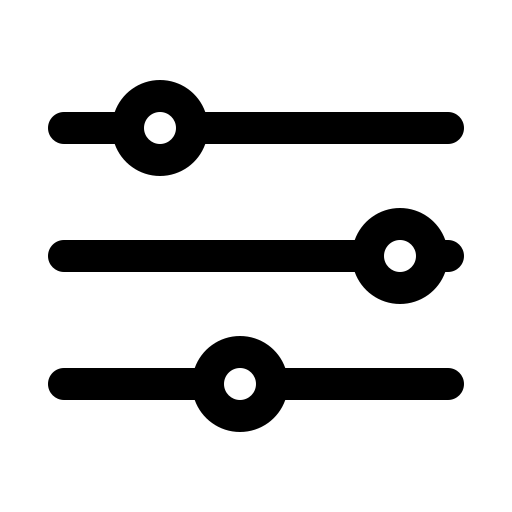
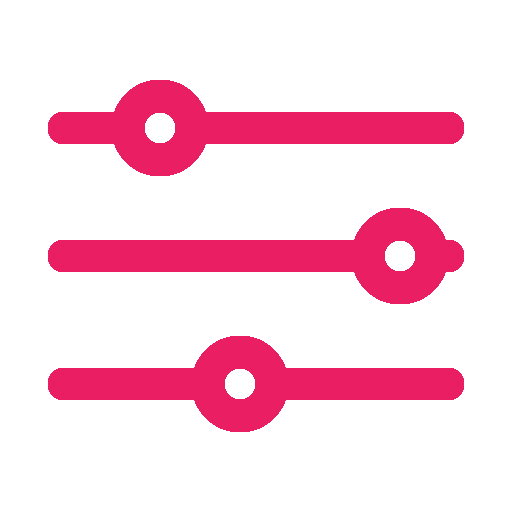
Mis à jour des styles de Artistes / de la couleur des images utilisées / de la date des concerts des artistes

Changed region(s): [[0.0938, 0.6562, 0.9062, 0.8438], [0.0938, 0.4062, 0.9062, 0.5938], [0.0938, 0.1562, 0.9062, 0.3438]]

diff --git a/components/artistes/programmation/Programmation.js b/components/artistes/programmation/Programmation.js
@@ -43,24 +43,26 @@ const Programmation = ({ artistes, navigation }) => {
    * @returns {function} Une fonction qui prend un objet item et renvoie un composant CheckBox.
    */
   const renderCheckbox = (array, setArray) => ({ item }) => (
-    <View style={{flex: 1}}>
+    <View style={styles.checkboxContainer}>
       <CheckBox
         title={item.style || item.scene}
         checked={item.selected}
         onPress={() => {
           inversionLogique(item.id, array, setArray);
         }}
-        style={styles.checkbox}
+        containerStyle={{backgroundColor: '#333333', borderWidth: 2, borderColor: '#e91e63'}}
+        textStyle={styles.checkboxTitle}
         checkedIcon="music"
-        checkedColor="#6DBD38"
+        checkedColor="#e91e63"
         uncheckedIcon="music"
-        uncheckedColor="#CACACA"
+        uncheckedColor="#333333"
+        wrapperStyle="#e91e63"
       />
     </View>
   );
 
   return (
-    <View style={{ flex: 1 }}>
+    <View style={styles.root}>
       <View style={styles.topBar}>
         <IconToggleButton
           source={require("../../../icones/rechercher.png")}
@@ -73,13 +75,13 @@ const Programmation = ({ artistes, navigation }) => {
         />
         <DayButton
           label="SAMEDI"
-          date="10 Juin"
+          date="01 Août"
           selected={jour === "samedi"}
           onPress={() => setJour("samedi")}
         />
         <DayButton
           label="DIMANCHE"
-          date="11 Juin"
+          date="02 Août"
           selected={jour === "dimanche"}
           onPress={() => setJour("dimanche")}
         />
@@ -108,7 +110,6 @@ const Programmation = ({ artistes, navigation }) => {
           {recherche && (
             <SearchBar
               placeholder="Nom de l'artiste"
-              lightTheme
               round
               value={rechercher}
               onChangeText={(text) => setRechercher(text)}

diff --git a/components/artistes/programmation/styles.js b/components/artistes/programmation/styles.js
@@ -2,36 +2,93 @@ import { StyleSheet } from "react-native";
 import { wp, hp } from '../../dimensions';
 
 const styles = StyleSheet.create({
+  root: {
+    flex: 1,
+    backgroundColor: '#333333',
+  },
+
   topBar: {
     flexDirection: "row",
     justifyContent: "space-between",
-    backgroundColor: "#C0C0C0",
+    alignItems: "center",
+    backgroundColor: "#333333",
     paddingVertical: hp('1.5'),
+    paddingHorizontal: wp('2'),
+    borderBottomWidth: 0.5,
+    borderBottomColor: '#333',
+    shadowColor: "#000",
+    shadowOffset: { width: 0, height: 2 },
+    shadowOpacity: 0.2,
+    shadowRadius: 3,
+    elevation: 5,
+    borderRadius: 5,
   },
+
   icone: {
     height: wp('10'),
     width: wp('10'),
     marginHorizontal: wp('2'),
   },
+
   text: {
     alignItems: "center",
+    color: '#e91e63',
   },
+
   selectText: {
     alignItems: "center",
     borderBottomWidth: wp('0.7'),
     borderBottomColor: "#000",
+    color: '#e91e63',
   },
-  checkbox: {
-    backgroundColor: "red",
+
+  checkboxContainer: {
+    flex: 1,
   },
+
+  checkboxTitle: {
+    color: '#e91e63',
+  },
+
   title: {
     textAlign: "center",
     marginVertical: wp('3'),
     fontSize: wp('5'),
+    color: '#e91e63',
+    backgroundColor: '#333333',
   },
+
   subTitle: {
     marginStart: wp('5'),
     marginTop: wp('3'),
+    color: '#e91e63',
+    backgroundColor: '#333333',
+  },
+
+  dayButton: {
+    padding: wp('2'),
+    borderRadius: wp('2'),
+    backgroundColor: '#333333',
+    marginHorizontal: wp('2'),
+    shadowColor: "#000",
+    shadowOffset: { width: 0, height: 2 },
+    shadowOpacity: 0.23,
+    shadowRadius: 2.62,
+    elevation: 4,
+  },
+
+  selectedDayButton: {
+    backgroundColor: '#e91e63',
+  },
+
+  dayButtonText: {
+    fontSize: wp('4'),
+    fontWeight: '600',
+    color: '#e91e63',
+  },
+
+  selectedDayButtonText: {
+    color: '#333333',
   },
 });
 

diff --git a/components/artistes/carte_artiste/styles.js b/components/artistes/carte_artiste/styles.js
@@ -1,29 +1,35 @@
-import { StyleSheet, Dimensions } from "react-native";
-
-const screenWidth = Dimensions.get("window").width;
+import { StyleSheet } from "react-native";
+import { wp, hp } from '../../dimensions';
 
 const styles = StyleSheet.create({
   format: {
     flexDirection: "row",
     elevation: 5,
     shadowColor: "#52006A",
-    marginVertical: screenWidth * 0.02,
-    marginHorizontal: screenWidth * 0.02,
-    borderRadius: screenWidth * 0.03,
-    backgroundColor: "white",
+    marginVertical: hp('2'),
+    marginHorizontal: wp('2'),
+    borderRadius: wp('3'),
+    backgroundColor: '#333333',
+    borderColor: '#e91e63',
+    borderWidth: 1,
   },
+
   formatAdjust: {
-    marginVertical: screenWidth * 0.01,
-    marginHorizontal: screenWidth * 0.02,
+    marginVertical: hp('1'),
+    marginHorizontal: wp('2'),
     justifyContent: "center",
   },
+
   icone: {
-    width: screenWidth * 0.2,
-    height: screenWidth * 0.2,
-    borderTopLeftRadius: screenWidth * 0.03,
-    borderTopRightRadius: screenWidth * 0.0,
-    borderBottomLeftRadius: screenWidth * 0.03,
-    borderBottomRightRadius: screenWidth * 0.0,
+    width: wp('20'),
+    height: wp('20'),
+    borderTopLeftRadius: wp('3'),
+    borderTopRightRadius: wp('0'),
+    borderBottomLeftRadius: wp('3'),
+    borderBottomRightRadius: wp('0'),
+  },
+  text: {
+    color: '#e91e63',
   },
 });
 

diff --git a/components/artistes/carte_artiste/CarteArtiste.js b/components/artistes/carte_artiste/CarteArtiste.js
@@ -1,6 +1,7 @@
 import React, { useEffect, useState } from "react";
 import { Text, Image, View, TouchableOpacity } from "react-native";
 
+import { setUpDate, setUpTime } from '../../utilities';
 import styles from "./styles";
 
 const CarteArtiste = ({ item, onPress }) => {
@@ -26,11 +27,11 @@ const CarteArtiste = ({ item, onPress }) => {
     <TouchableOpacity onPress={onPress} style={styles.format}>
       <Image source={{ uri: item.acf.imageurl }} style={styles.icone} />
       <View style={styles.formatAdjust}>
-        <Text>{nom}</Text>
-        <Text>
-          {hmdebut} - {hmfin}
+        <Text style={styles.text}>{nom}</Text>
+        <Text style={styles.text}>
+          De {setUpTime(hmdebut)} à {setUpTime(hmfin)}
         </Text>
-        <Text>
+        <Text style={styles.text}>
           {scene} / {style_musical}
         </Text>
       </View>

diff --git a/components/artistes/programmation/DayButton.js b/components/artistes/programmation/DayButton.js
@@ -3,11 +3,10 @@ import { Text, TouchableOpacity } from 'react-native';
 
 import styles from "./styles.js";
 
-const DayButton = ({ label, date, selected, onPress }) => {
+const DayButton = ({ label, selected, onPress }) => {
   return (
-    <TouchableOpacity style={styles.text} onPress={onPress}>
-      <Text>{label}</Text>
-      <Text style={selected ? styles.selectText : styles.select}>{date}</Text>
+    <TouchableOpacity style={[styles.dayButton, selected ? styles.selectedDayButton : {}]} onPress={onPress}>
+      <Text style={[styles.dayButtonText, selected ? styles.selectedDayButtonText : {}]}>{label}</Text>
     </TouchableOpacity>
   );
 };

diff --git a/components/utilities.js b/components/utilities.js
@@ -51,7 +51,7 @@ export const filtreArtistes = (arrayArtistes, arrayScenes, arrayStyles) => {
  * @returns {Array} La liste des artistes filtrée en fonction du jour sélectionné.
  */
 export const filtreJour = (arrayArtistes, jour) => {
-  return arrayArtistes.filter(({ acf }) => acf.date === (jour === "samedi" ? "20230720" : "20230721"));
+  return arrayArtistes.filter(({ acf }) => acf.date === (jour === "samedi" ? "20230801" : "20230802"));
 };
 
 /**
